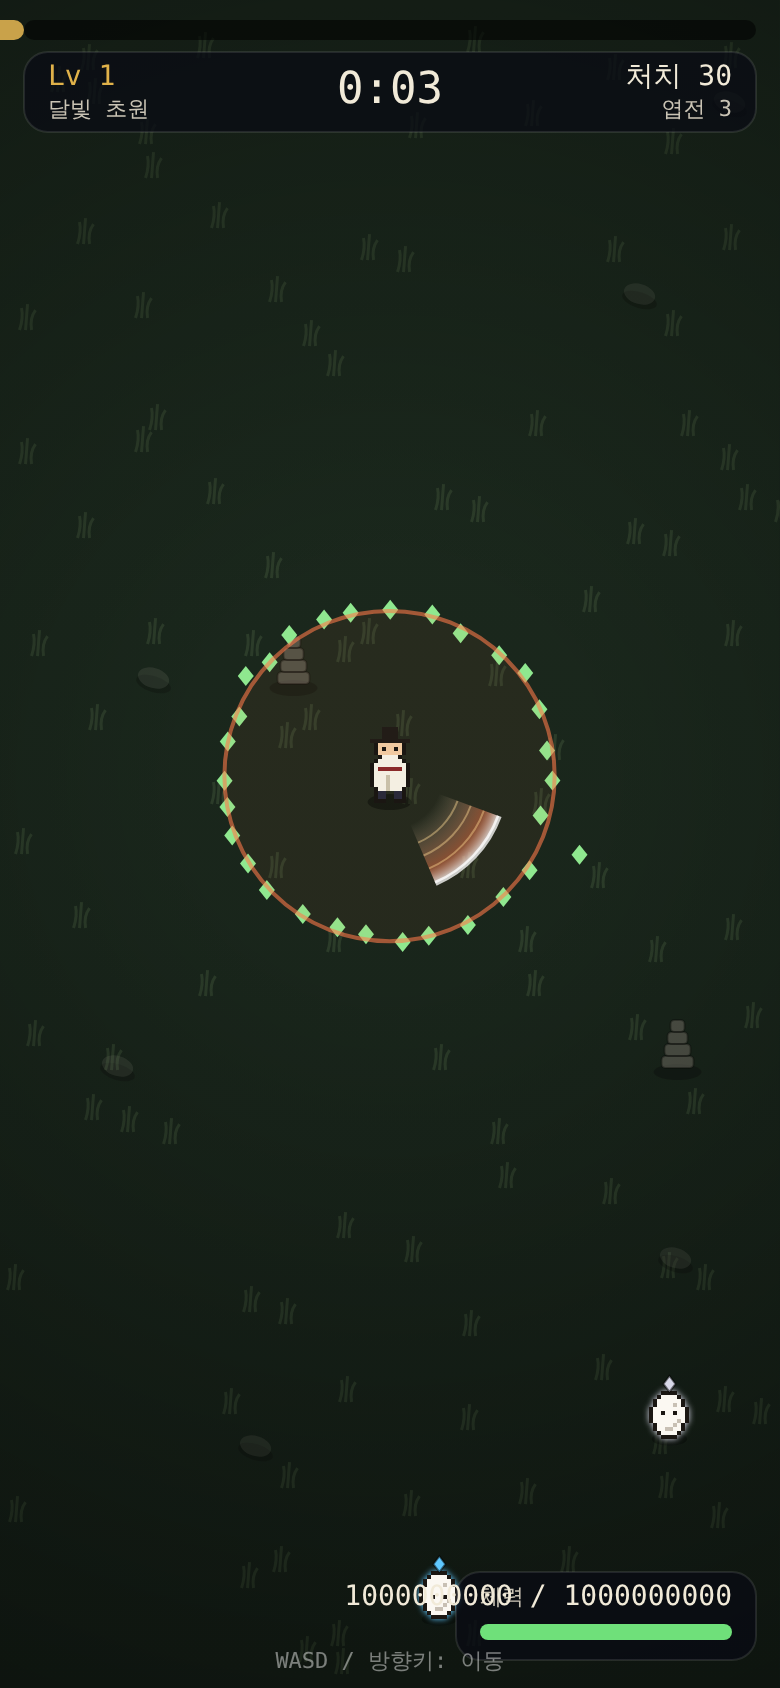
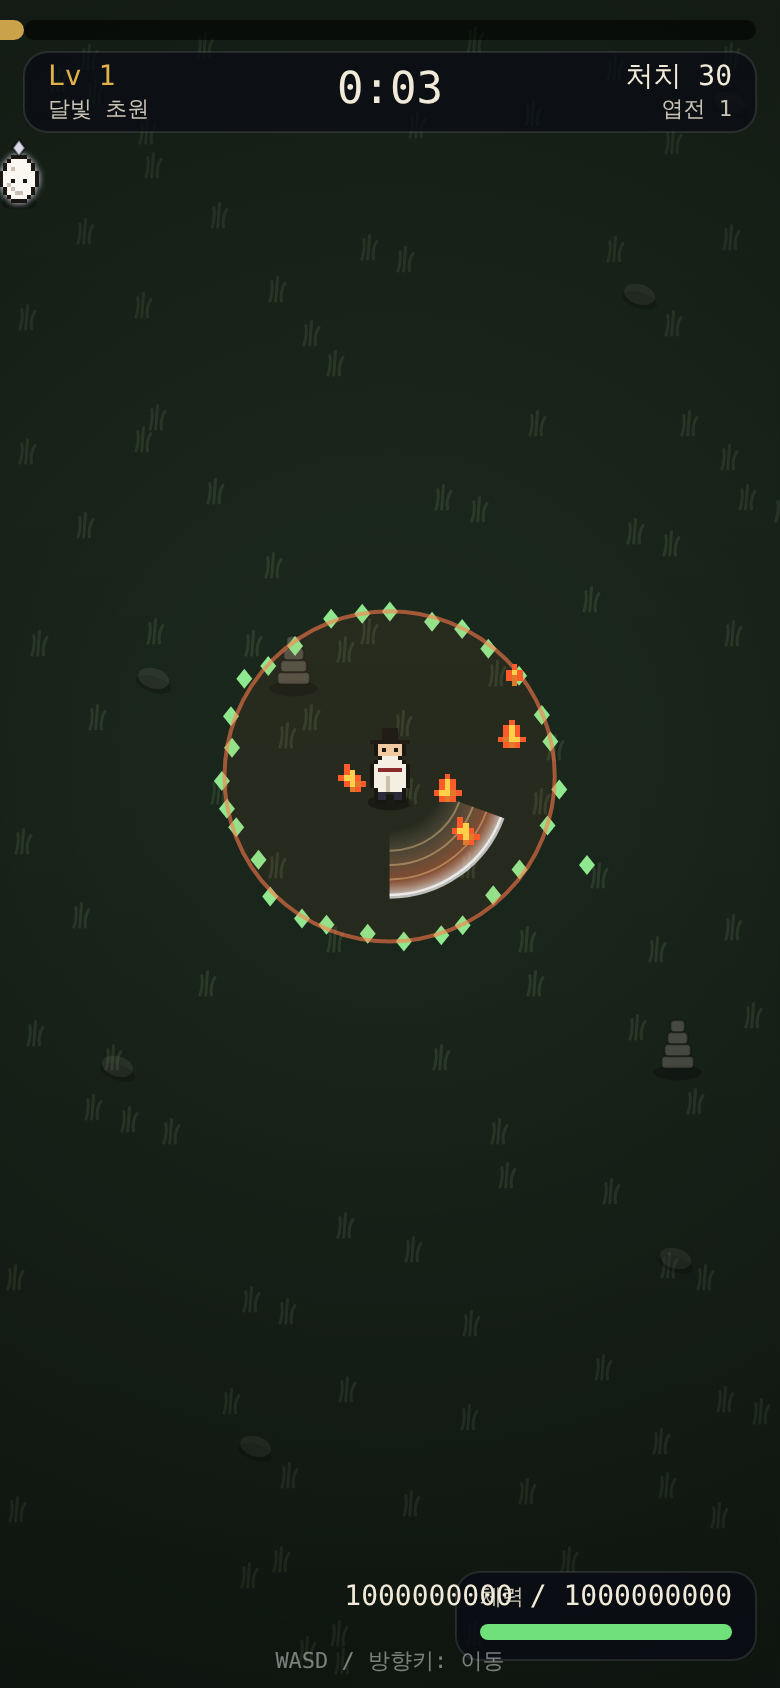
밤의 퇴마사 v16: 투사체·이펙트 픽셀화 (PFX 스프라이트 파티클, 오라 랜덤 솟음, 화상 불꽃, 파문·파편)
Claude-Session: https://claude.ai/code/session_01RmJvEQYZMU41pMZMsu4AKq

diff --git a/docs/04-night-exorcist/design.md b/docs/04-night-exorcist/design.md
@@ -187,3 +187,9 @@ challenge(n) = 1 + 0.975·(1 − 0.86^n)     (밤 단계)
 
 ## 21. v15 — 무기 아이콘 픽셀화 (10/04)
 - Adobe MCP 로 무기 이미지 생성을 시도하려 했으나: 이 환경의 Adobe 도구엔 **생성형(텍스트→이미지, 생성 채우기)이 없고**(`image_fill_area` 는 단색 채우기), 샌드박스에서 Adobe 업로드 도메인도 차단. → 요괴와 같은 방식의 **14×14 픽셀 스프라이트 26종**을 직접 그려 `GRIDS.w_<id>` 로 넣고 `drawIcon` 이 기본 무기는 스프라이트를 정수 배율로 그림(레벨업 카드·사당·상자·뽑기·도감 전부). 진화 아이콘은 부품 스프라이트 합성, 패시브·수련은 벡터 유지. 투사체 외형은 그대로
+
+## 22. v16 — 투사체·이펙트 픽셀화 (10/04)
+- `PFX` 픽셀 파티클: 3프레임 스프라이트(fx_flame·drop·leaf·ring·spark·wisp·dust·bolt·smoke·ripple·rock)를 생명 시간에 걸쳐 재생. 상한 260개
+- 오라 무기: 반경 안 랜덤 위치에서 속성 픽셀이 솟았다 사라짐(초당 6 + 반경/14 개, 지속 중 계속). 화로 = 불꽃이 올라왔다 꺼짐, 물안개 = 방울이 떨어짐, 모래 바람 = 먼지, 쑥뜸 = 연기 …
+- 투사체 = 무기 픽셀 스프라이트를 진행 방향으로 회전 + 속성 잔상 픽셀. 화상 중인 요괴 = 몸 위 픽셀 불꽃(기존 원형 표식 제거), 화상 DoT 는 흰 점멸 없이(`quiet`). 물웅덩이 = 픽셀 파문, 불구덩이 = 불꽃, 낙석/낙뢰 충격 = 파편, 번개 연쇄 끝 스파크, 처치 시 속성 픽셀. 기존 둥근 파티클도 2px 격자 사각형으로
+- 성능: 적 58 + 덱 4 + PFX ~90 에서 p95 3.8ms
